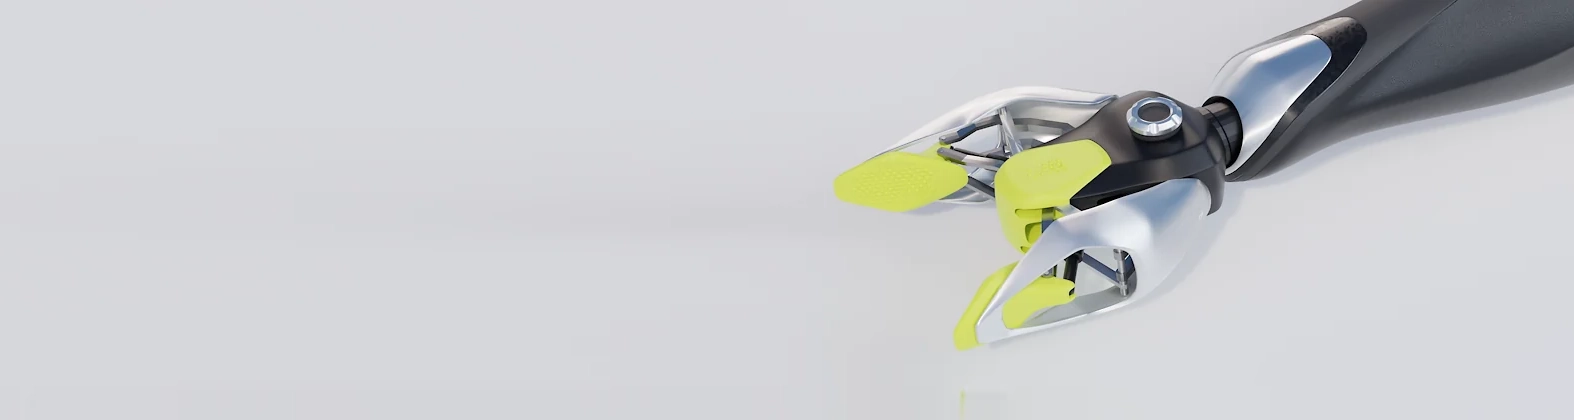
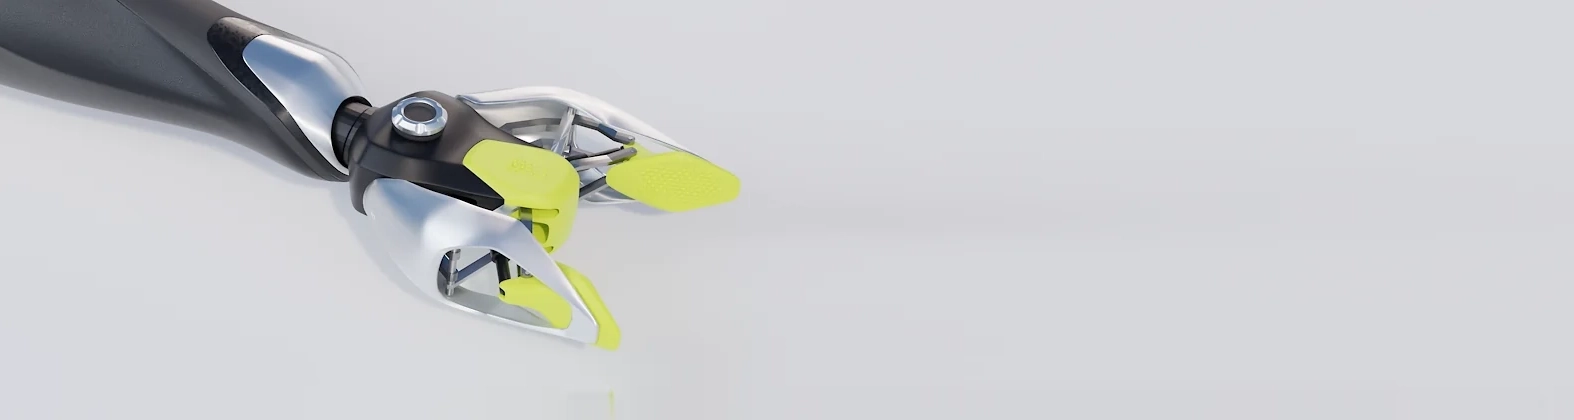
fixed alignment for blocks 2

Changed region(s): [[0.5292, 0.0, 1.0, 0.8357], [0.0, 0.0, 0.4981, 0.8357]]

diff --git a/components/AdvantagesBlock/AdvantagesBlock.module.css b/components/AdvantagesBlock/AdvantagesBlock.module.css
@@ -15,6 +15,11 @@
     background-position: 10% center;
 }
 
+.advantages__item--right {
+    align-items: flex-end;
+    text-align: right;
+}
+
 .advantages__item:last-child {
     margin-bottom: 0;
 }
@@ -65,11 +70,16 @@
         justify-content: flex-end;
     }
 
+    .advantages__item--right {
+        justify-content: flex-end;
+        text-align: left;
+    }
+
     .advantages__item-text {
         font-size: 28px;
         line-height: 32px;
         margin-bottom: 10px;
-        max-width: 350px;
+        max-width: 320px;
     }
     
     .advantage__item--1-background {

diff --git a/components/AdvantagesBlock/AdvantagesBlock.jsx b/components/AdvantagesBlock/AdvantagesBlock.jsx
@@ -67,7 +67,7 @@ export function AdvantagesBlock() {
                   itemProp="contentUrl"
                   className={styles["advantage__item-image"]}
                   src={isMobile ? adv.mobileImg : adv.desktopImg}
-                  objectPosition="right top"
+                  objectPosition={adv.right ? "left top" : "right top"}
                   objectFit="cover"
                   alt={`Изображение протеза #${i}`}
                   fill

diff --git a/components/ArticlesBlock/ArticlesBlock.module.css b/components/ArticlesBlock/ArticlesBlock.module.css
@@ -5,7 +5,6 @@
     column-gap: 2%;
 }
 
-
 .articles__title {
     text-align: center;
     font-size: 52px;
@@ -13,7 +12,6 @@
     margin-bottom: 30px;
     font-weight: bold;
 }
-
 
 .articles__description {
     width: 50%;

diff --git a/components/QuoteBlock/QuoteBlock.module.css b/components/QuoteBlock/QuoteBlock.module.css
@@ -70,7 +70,7 @@
     .quote__description {
         text-align: left;
          font-size: 16px;
-        line-height: 20px;
+        line-height: 25px;
     }
 
     .quote__content-inner {
